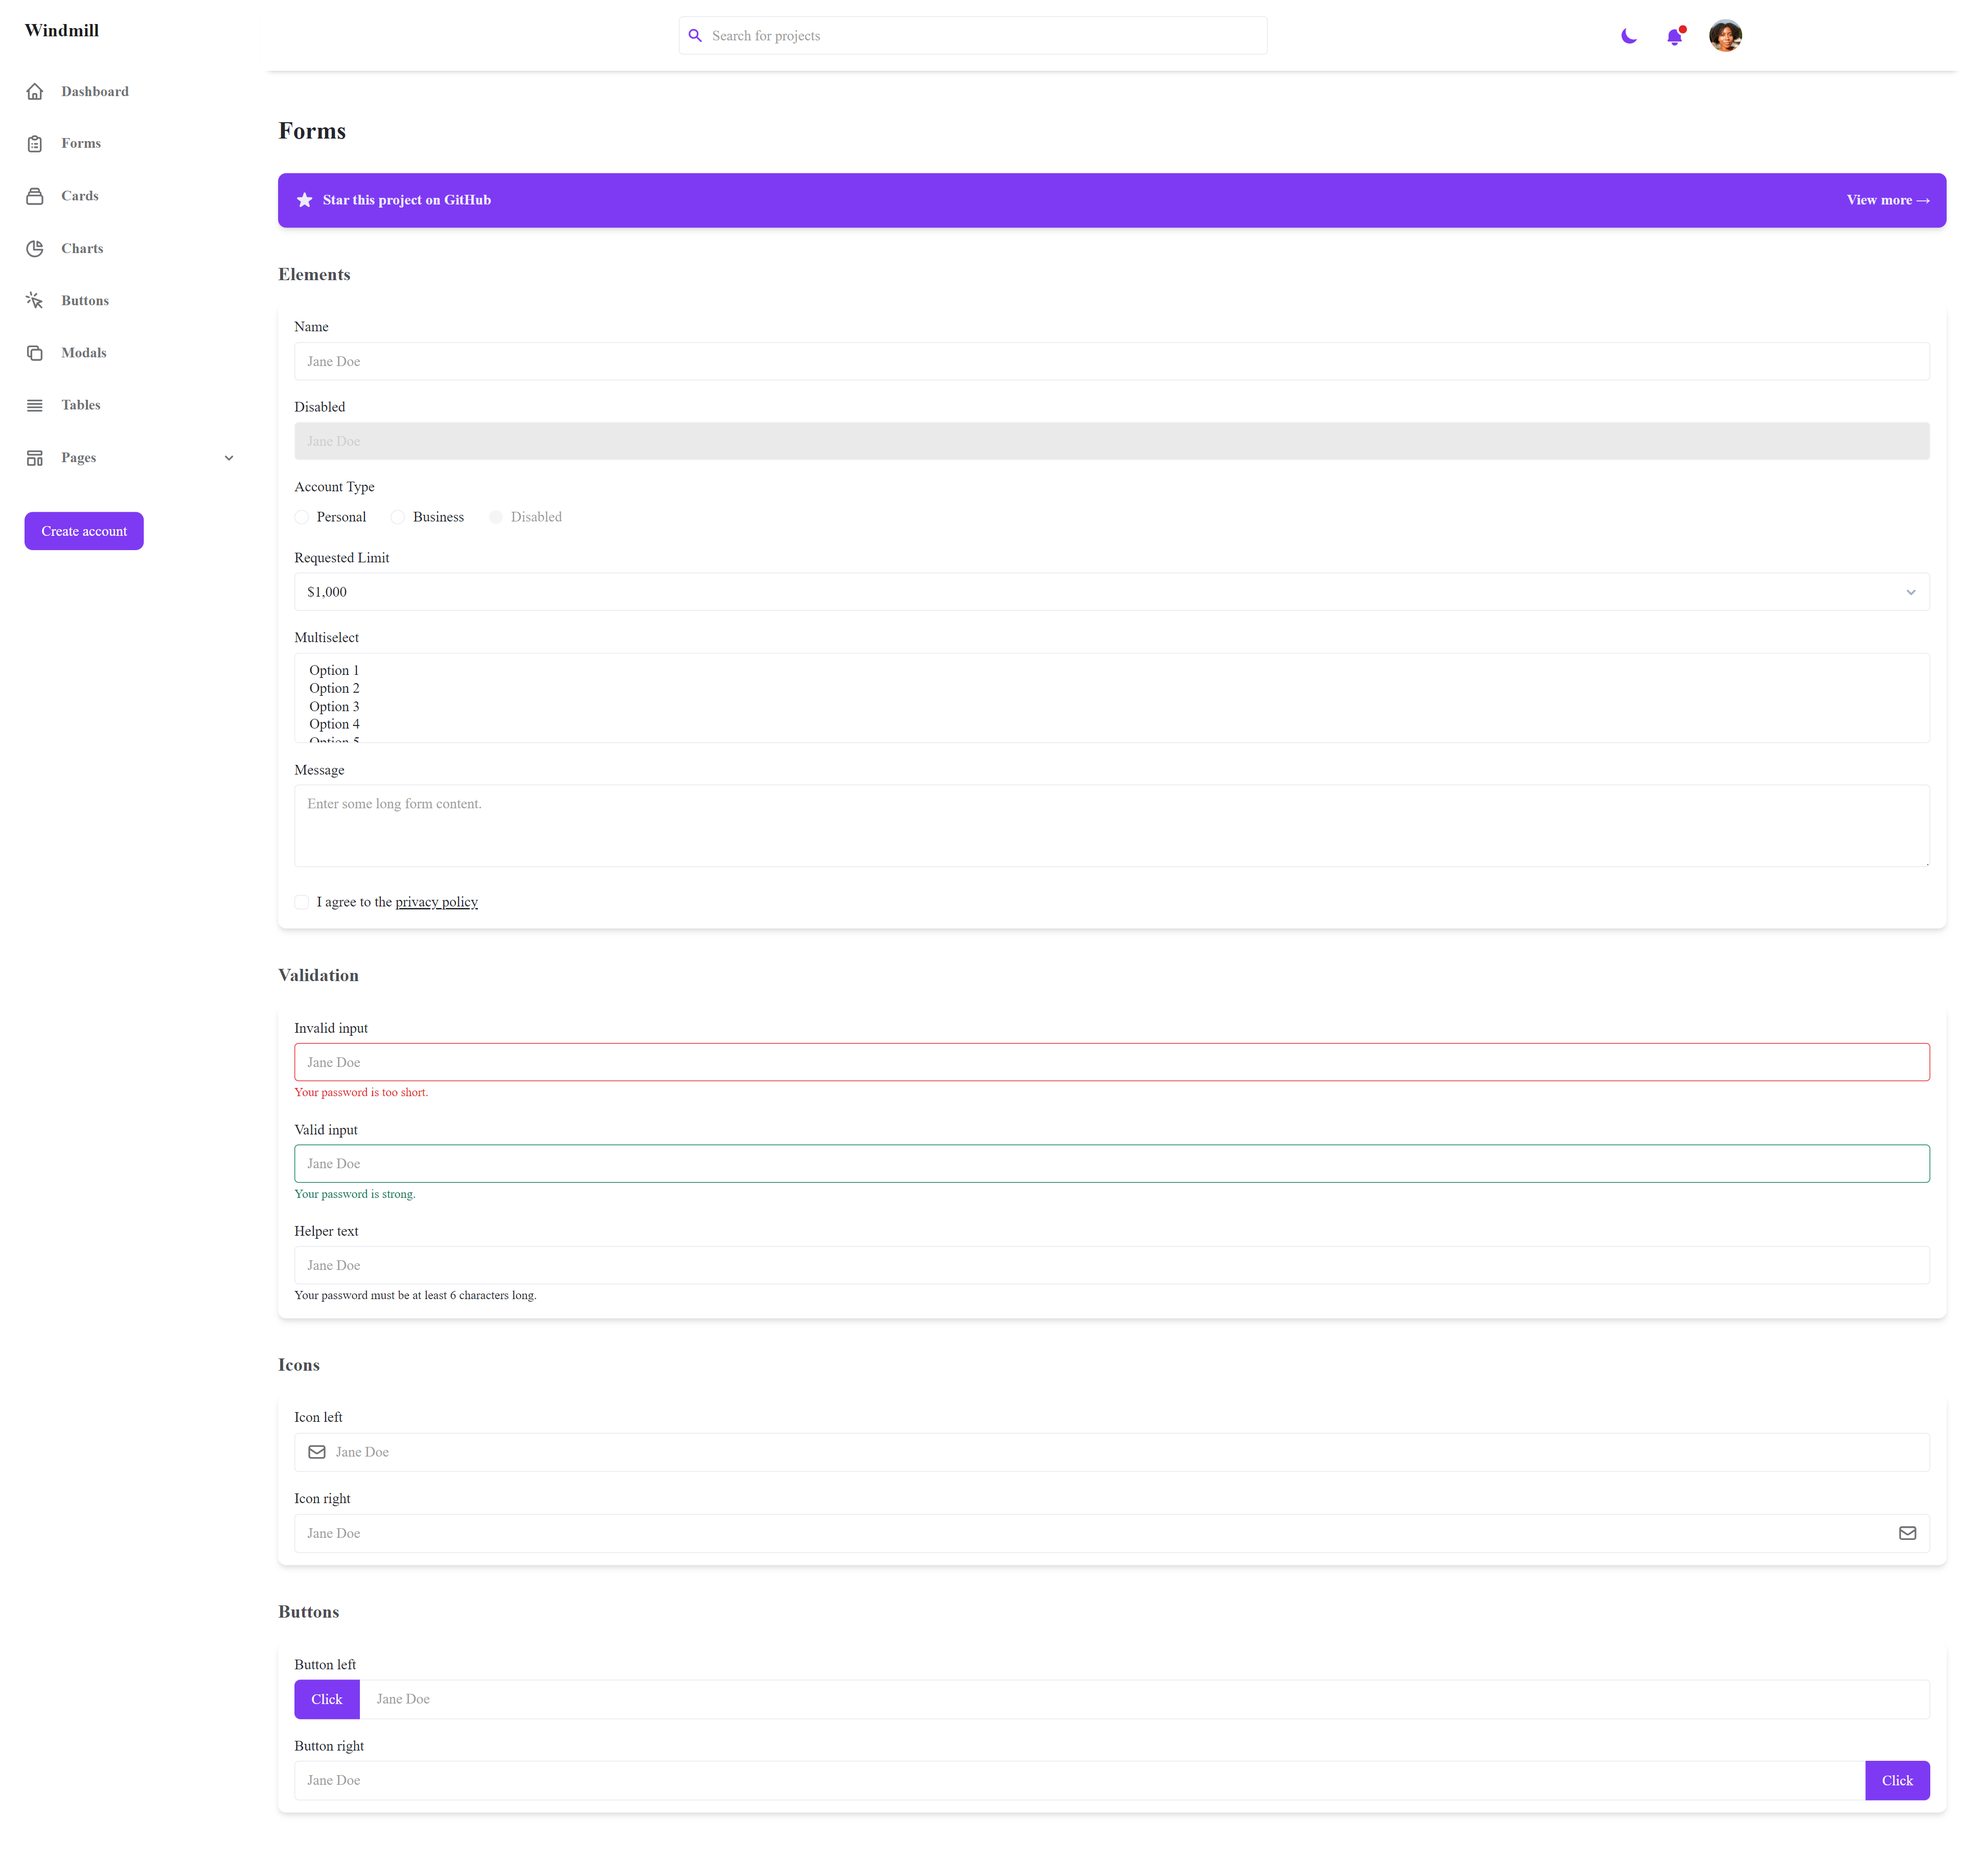
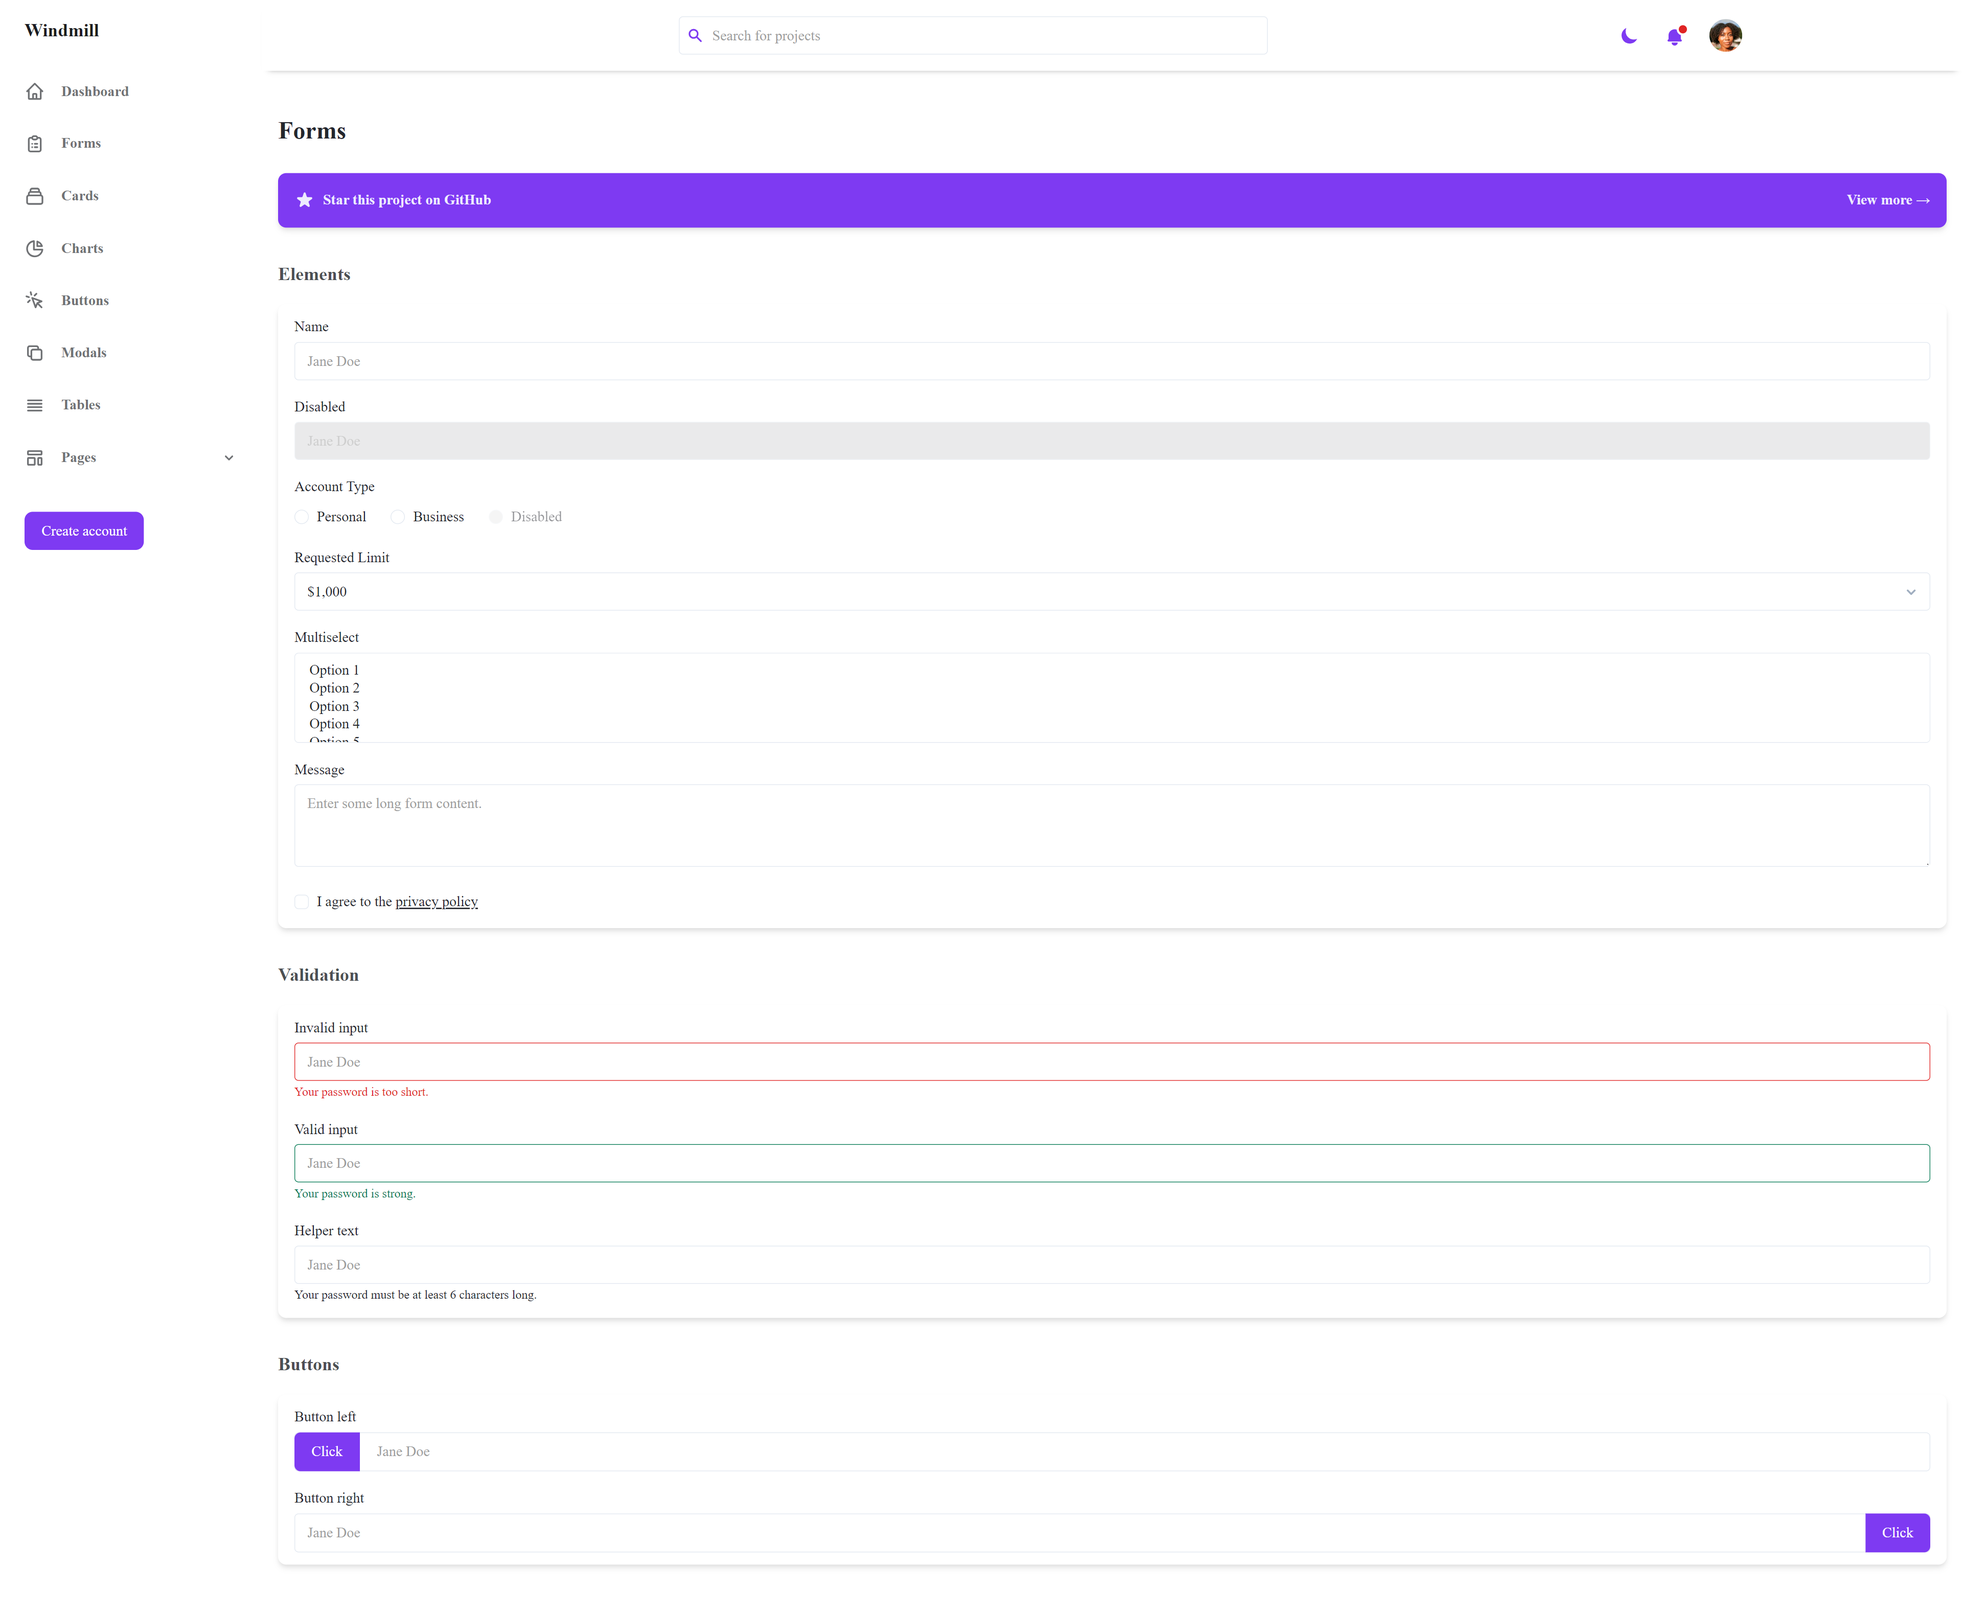
cd_1

diff --git a/src/pages/FormsPage.js b/src/pages/FormsPage.js
@@ -100,37 +100,6 @@ function FormsPage() {
       </div>
 
       {/* <!-- Inputs with icons --> */}
-      <h2 className="mb-4 text-lg font-semibold text-gray-600 dark:text-gray-300">Icons</h2>
-
-      <div className="px-4 py-3 mb-8 bg-white rounded-lg shadow-md dark:bg-gray-800 inputWithIconContainer">
-        <Label className="inputWithIcon">
-          <span>Icon left</span>
-          {/* <!-- focus-within sets the color for the icon when input is focused --> */}
-          <div className="relative text-gray-500 focus-within:text-purple-600 dark:focus-within:text-purple-400">
-            <input
-              className="block w-full pl-10 mt-1 text-sm text-black dark:text-gray-300 dark:border-gray-600 dark:bg-gray-700 focus:border-purple-400 focus:outline-none focus:shadow-outline-purple dark:focus:shadow-outline-gray form-input"
-              placeholder="Jane Doe"
-            />
-            <div className="absolute inset-y-0 flex items-center ml-3 pointer-events-none">
-              <MailIcon className="w-5 h-5" aria-hidden="true" />
-            </div>
-          </div>
-        </Label>
-
-        <Label className="mt-4 inputWithIcon">
-          <span className="text-gray-700 dark:text-gray-400">Icon right</span>
-          {/* <!-- focus-within sets the color for the icon when input is focused --> */}
-          <div className="relative text-gray-500 focus-within:text-purple-600 dark:focus-within:text-purple-400">
-            <input
-              className="block w-full pr-10 mt-1 text-sm text-black dark:text-gray-300 dark:border-gray-600 dark:bg-gray-700 focus:border-purple-400 focus:outline-none focus:shadow-outline-purple dark:focus:shadow-outline-gray form-input"
-              placeholder="Jane Doe"
-            />
-            <div className="absolute inset-y-0 right-0 flex items-center mr-3 pointer-events-none">
-              <MailIcon className="w-5 h-5" aria-hidden="true" />
-            </div>
-          </div>
-        </Label>
-      </div>
 
       {/* <!-- Inputs with buttons --> */}
       <h2 className="mb-4 text-lg font-semibold text-gray-600 dark:text-gray-300">Buttons</h2>
